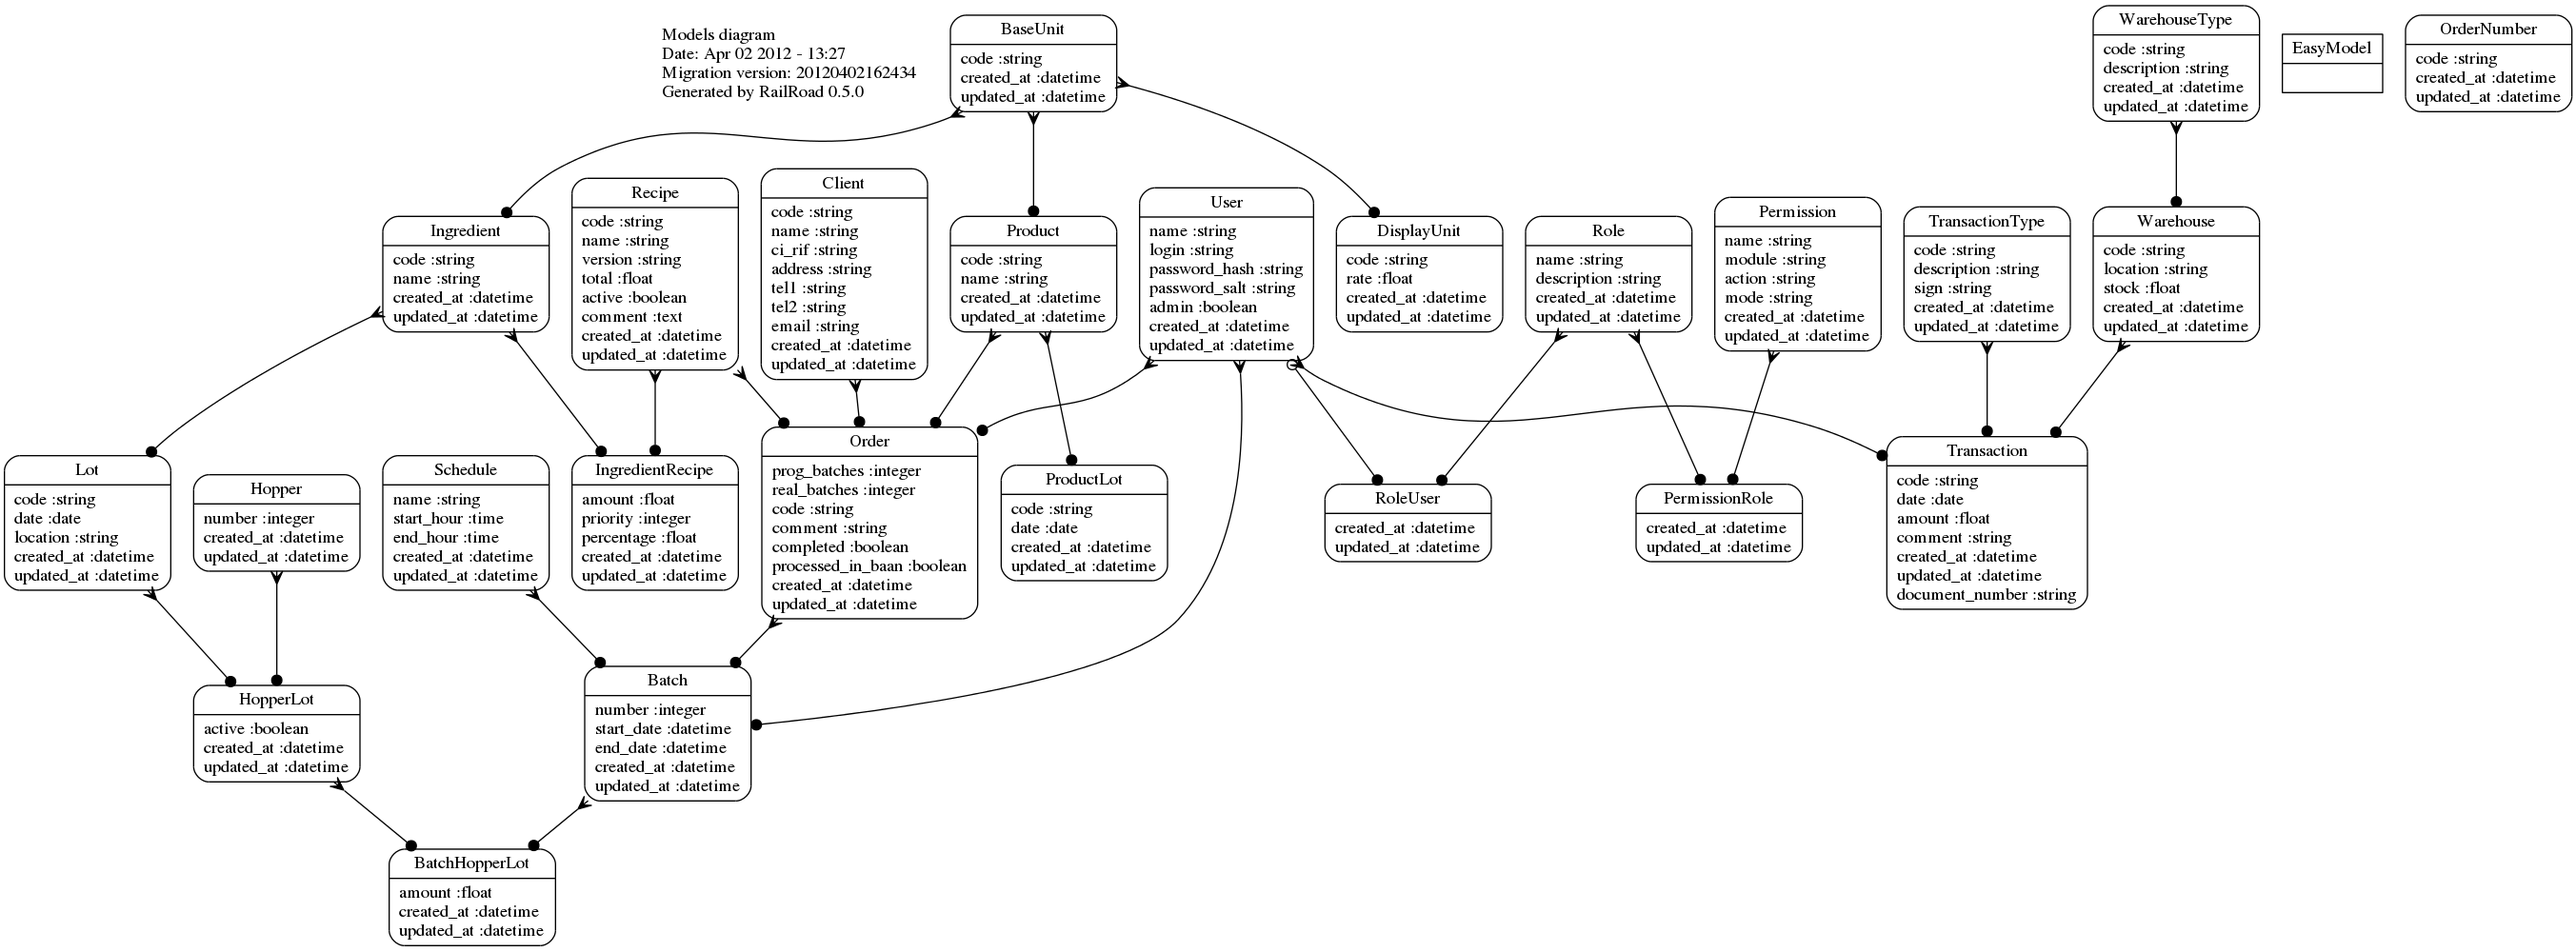
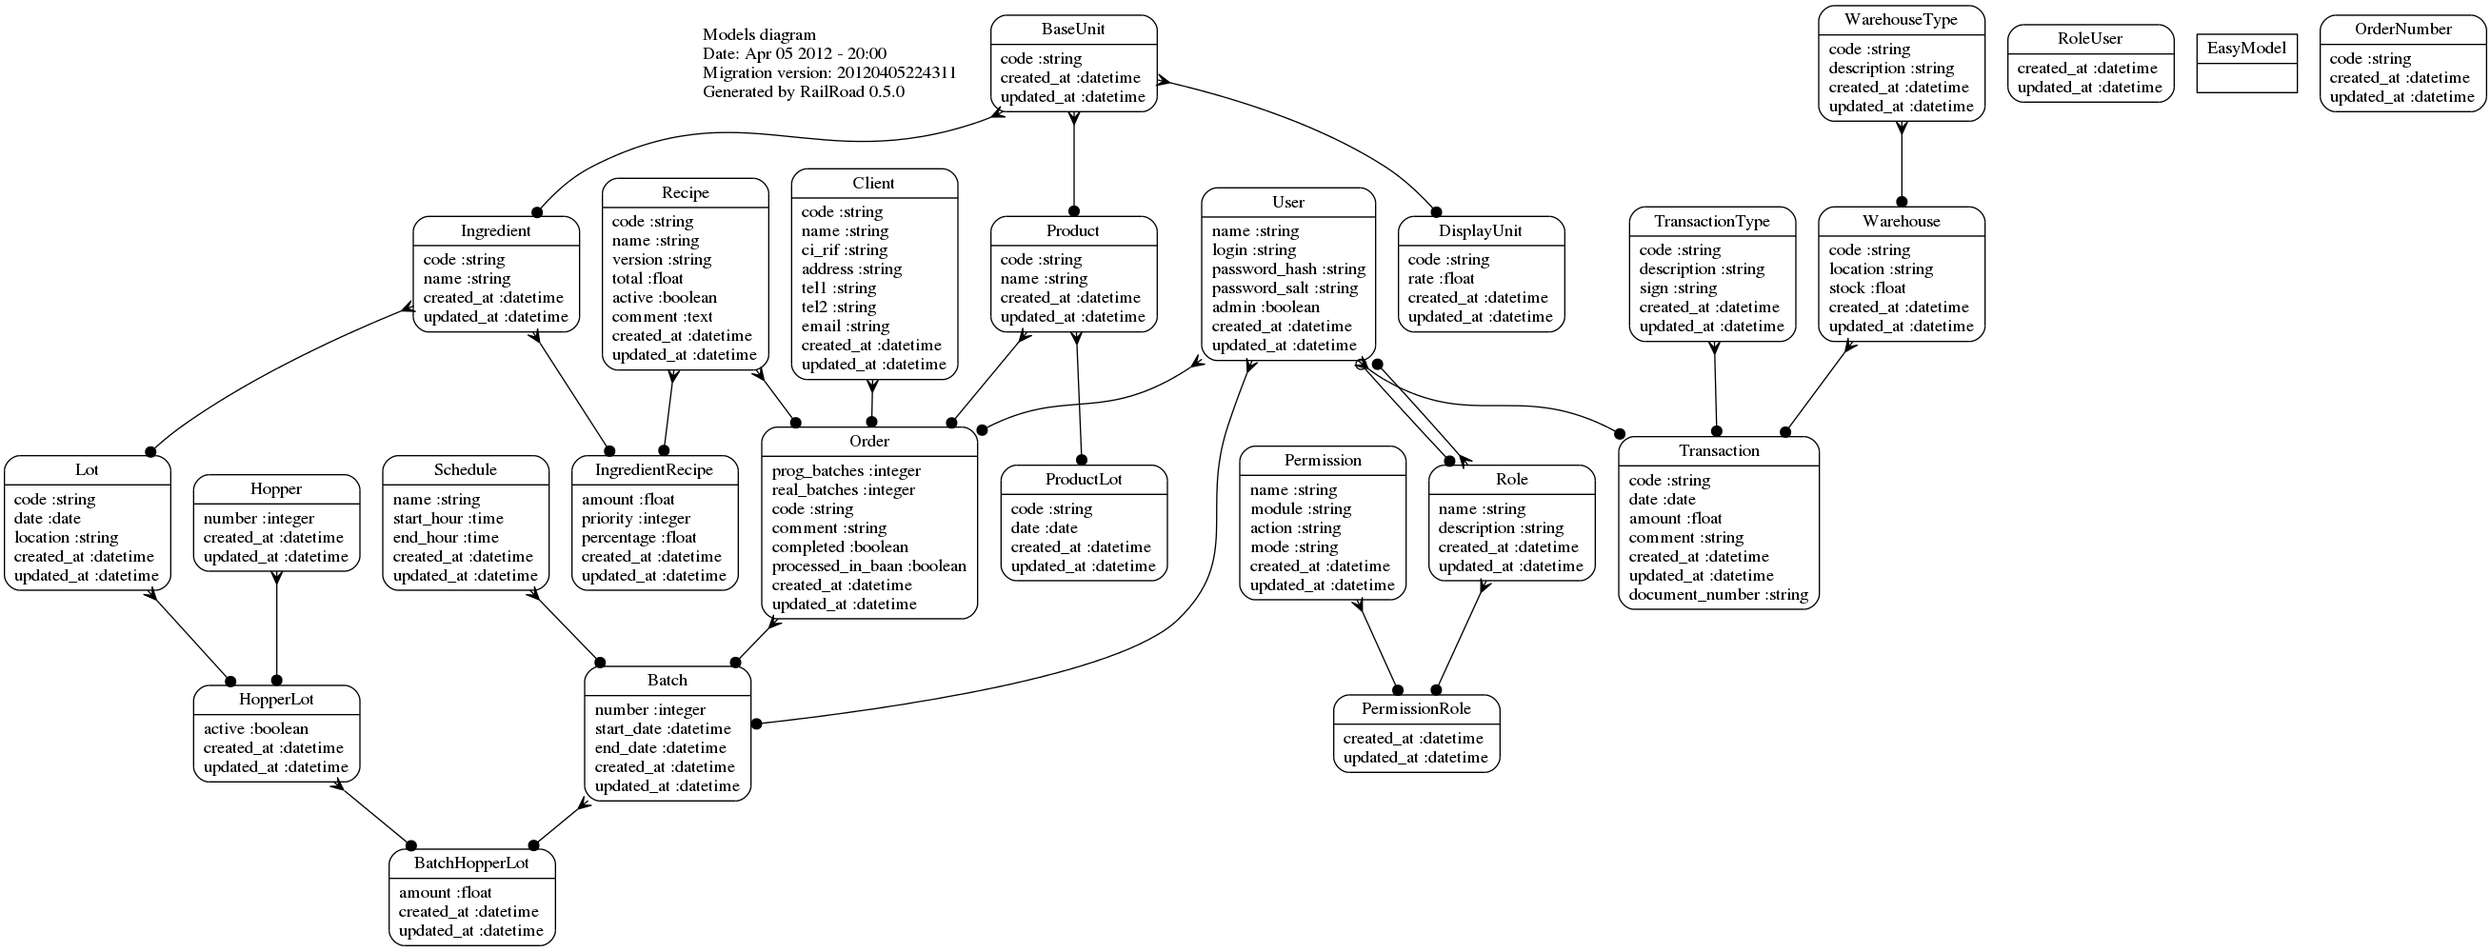
Finished implementation of roles and permissions

diff --git a/db/schema.rb b/db/schema.rb
@@ -10,7 +10,7 @@
 #
 # It's strongly recommended to check this file into your version control system.
 
-ActiveRecord::Schema.define(:version => 20120402162434) do
+ActiveRecord::Schema.define(:version => 20120405224311) do
 
   create_table "bases_units", :force => true do |t|
     t.string   "code",       :null => false
@@ -165,7 +165,8 @@ ActiveRecord::Schema.define(:version => 20120402162434) do
 
   create_table "products_lots", :force => true do |t|
     t.integer  "order_id"
-    t.string   "number",     :null => false
+    t.string   "code",       :null => false
+    t.date     "date"
     t.datetime "created_at"
     t.datetime "updated_at"
   end
@@ -212,11 +213,12 @@ ActiveRecord::Schema.define(:version => 20120402162434) do
   end
 
   create_table "transactions", :force => true do |t|
-    t.integer  "transaction_type_id"
-    t.integer  "warehouse_id"
-    t.integer  "user_id"
-    t.datetime "date"
-    t.float    "amount"
+    t.integer  "transaction_type_id", :null => false
+    t.integer  "warehouse_id",        :null => false
+    t.integer  "user_id",             :null => false
+    t.string   "code",                :null => false
+    t.date     "date",                :null => false
+    t.float    "amount",              :null => false
     t.string   "comment"
     t.datetime "created_at"
     t.datetime "updated_at"
@@ -231,10 +233,11 @@ ActiveRecord::Schema.define(:version => 20120402162434) do
     t.boolean  "admin",         :default => false
     t.datetime "created_at"
     t.datetime "updated_at"
+    t.integer  "role_id"
   end
 
   create_table "warehouses", :force => true do |t|
-    t.integer  "warehouse_type_id",                  :null => false
+    t.integer  "warehouse_type_id"
     t.integer  "content_id",                         :null => false
     t.string   "code",                               :null => false
     t.string   "location",                           :null => false

diff --git a/app/models/user.rb b/app/models/user.rb
@@ -2,10 +2,10 @@ class User < ActiveRecord::Base
   has_many :order
   has_many :batch
   has_many :transaction
-  has_one :role_user
+  has_one :role
 
   validates_uniqueness_of :login
-  validates_presence_of :name, :login
+  validates_presence_of :name, :login, :role_id
   validates_length_of :name, :login, :within => 3..40
 
   before_save :validate_password
@@ -20,6 +20,15 @@ class User < ActiveRecord::Base
     return nil
   end
 
+  def get_dashboard_permissions
+    permissions = []
+    perm = PermissionRole.find :all, :conditions=>{:role_id=>self.role_id, :permissions=>{:action=>'consult'}}, :include=>[:permission]
+    perm.each do |pr|
+      permissions << pr.permission.module
+    end
+    return permissions
+  end
+
   def password=(pass)
     return if pass.blank?
     @password = pass
@@ -29,7 +38,7 @@ class User < ActiveRecord::Base
 
   def has_permission?(controller, action)
     valid = false
-    permission_roles = PermissionRole.find_with_permissions(self.role_user.role.id, controller)
+    permission_roles = PermissionRole.find_with_permissions(self.role_id, controller)
     permission_roles.each do |pm|
       puts "action: #{action}"
       puts "permission.action: #{pm.permission.action} - permission.module: #{pm.permission.module}"

diff --git a/app/controllers/users_controller.rb b/app/controllers/users_controller.rb
@@ -3,8 +3,13 @@ class UsersController < ApplicationController
     @users = User.paginate :all, :page=>params[:page], :per_page=>session[:per_page]
   end
 
+  def new
+    @roles = Role.get_all
+  end
+
   def edit
     @user = User.find params[:id]
+    @roles = Role.get_all
   end
 
   def create
@@ -13,6 +18,7 @@ class UsersController < ApplicationController
       flash[:notice] = 'Usuario guardado con éxito'
       redirect_to :users
     else
+      new
       render :new
     end
   end
@@ -24,6 +30,7 @@ class UsersController < ApplicationController
       flash[:notice] = 'Usuario guardado con éxito'
       redirect_to :users
     else
+      edit
       render :edit
     end
   end

diff --git a/app/controllers/sessions_controller.rb b/app/controllers/sessions_controller.rb
@@ -1,11 +1,11 @@
 class SessionsController < ApplicationController
   skip_before_filter :check_authentication
   layout 'login'
-  
+
   def index
     redirect_to :action=>'show' if session[:user]
   end
-  
+
   def show
     if session[:user]
       render :show, :layout => 'dashboard'
@@ -18,6 +18,7 @@ class SessionsController < ApplicationController
     user = User.auth(params[:user][:login], params[:user][:password])
     if user
       session[:user] = user
+      session[:permissions] = user.get_dashboard_permissions
       session[:per_page] = 12
       session[:company] = YAML::load(File.open("#{Rails.root.to_s}/config/global.yml"))['application']
       puts session.inspect

diff --git a/db/migrate/20120405224311_add_role_id_to_users.rb b/db/migrate/20120405224311_add_role_id_to_users.rb
@@ -1,0 +1,9 @@
+class AddRoleIdToUsers < ActiveRecord::Migration
+  def self.up
+    add_column :users, :role_id, :integer
+  end
+
+  def self.down
+    remove_column :users, :role_id
+  end
+end

diff --git a/app/models/role.rb b/app/models/role.rb
@@ -1,4 +1,8 @@
 class Role < ActiveRecord::Base
   has_many :permission_role
-  has_many :role_user
+  has_many :user
+
+  def self.get_all
+    find :all, :order => 'name ASC'
+  end
 end
